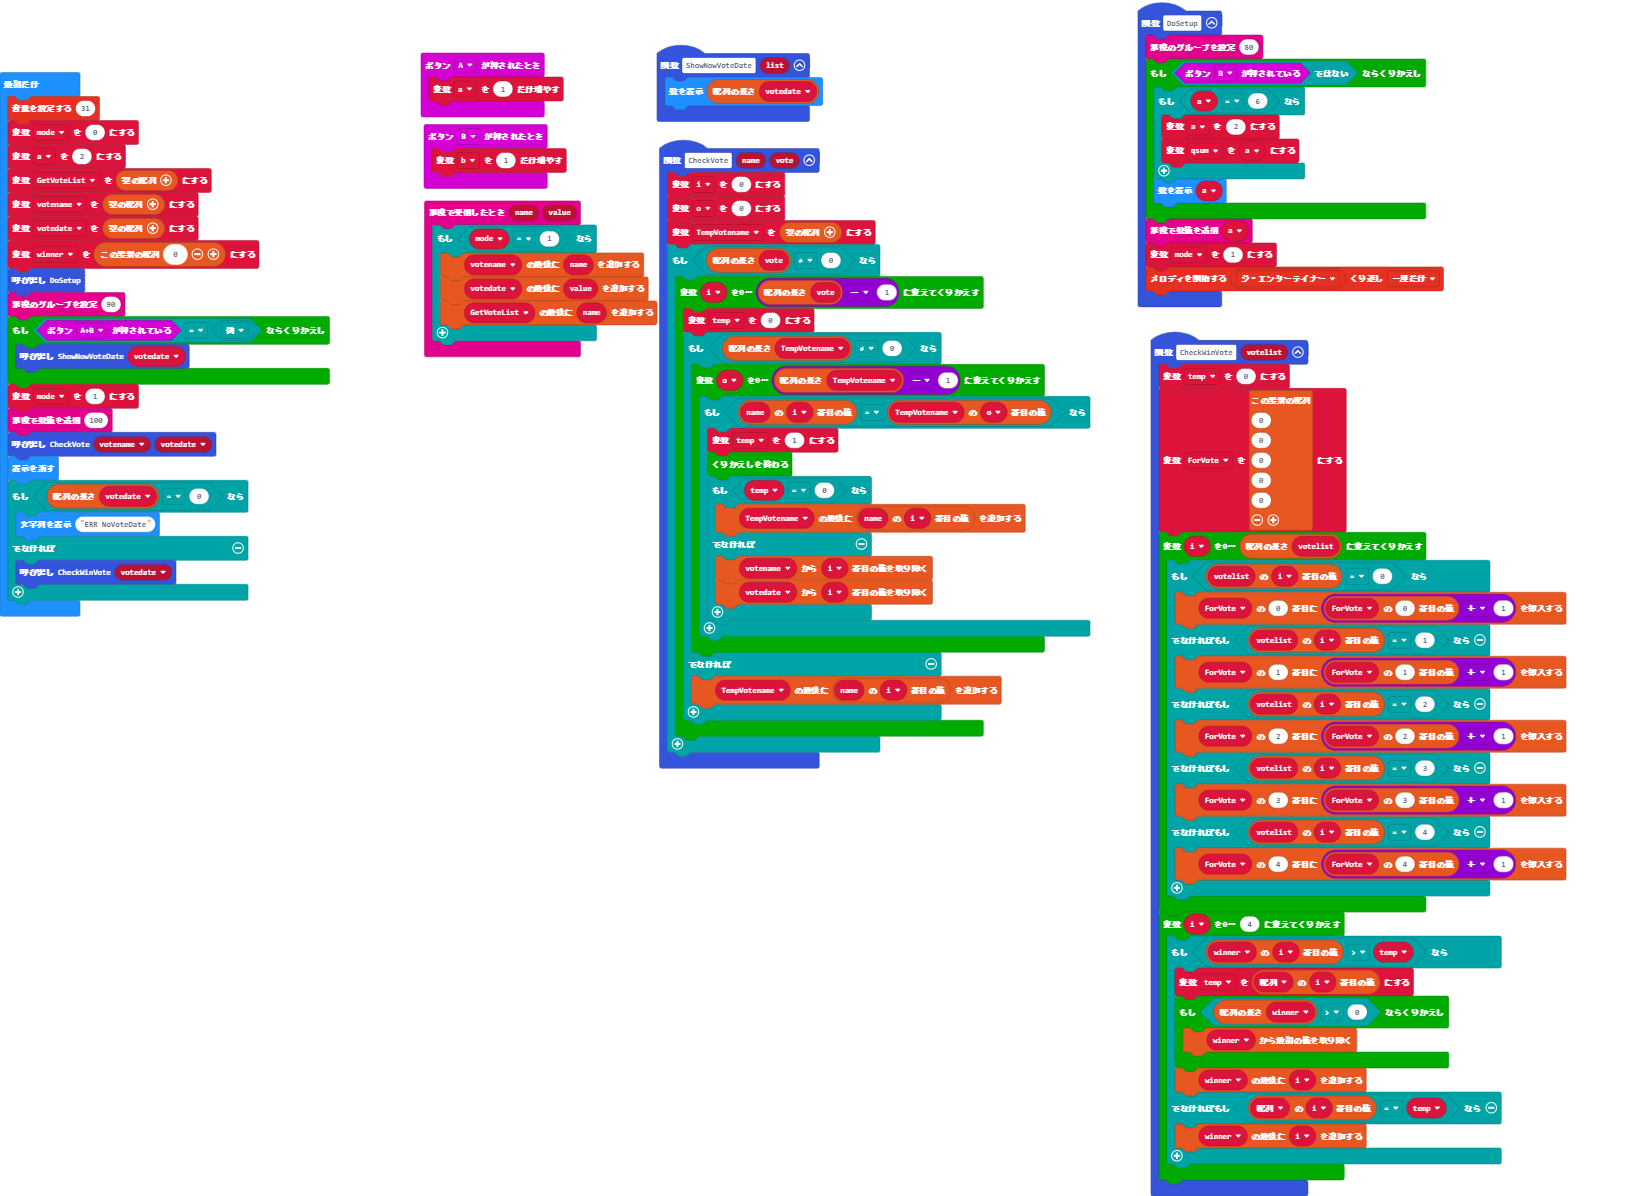
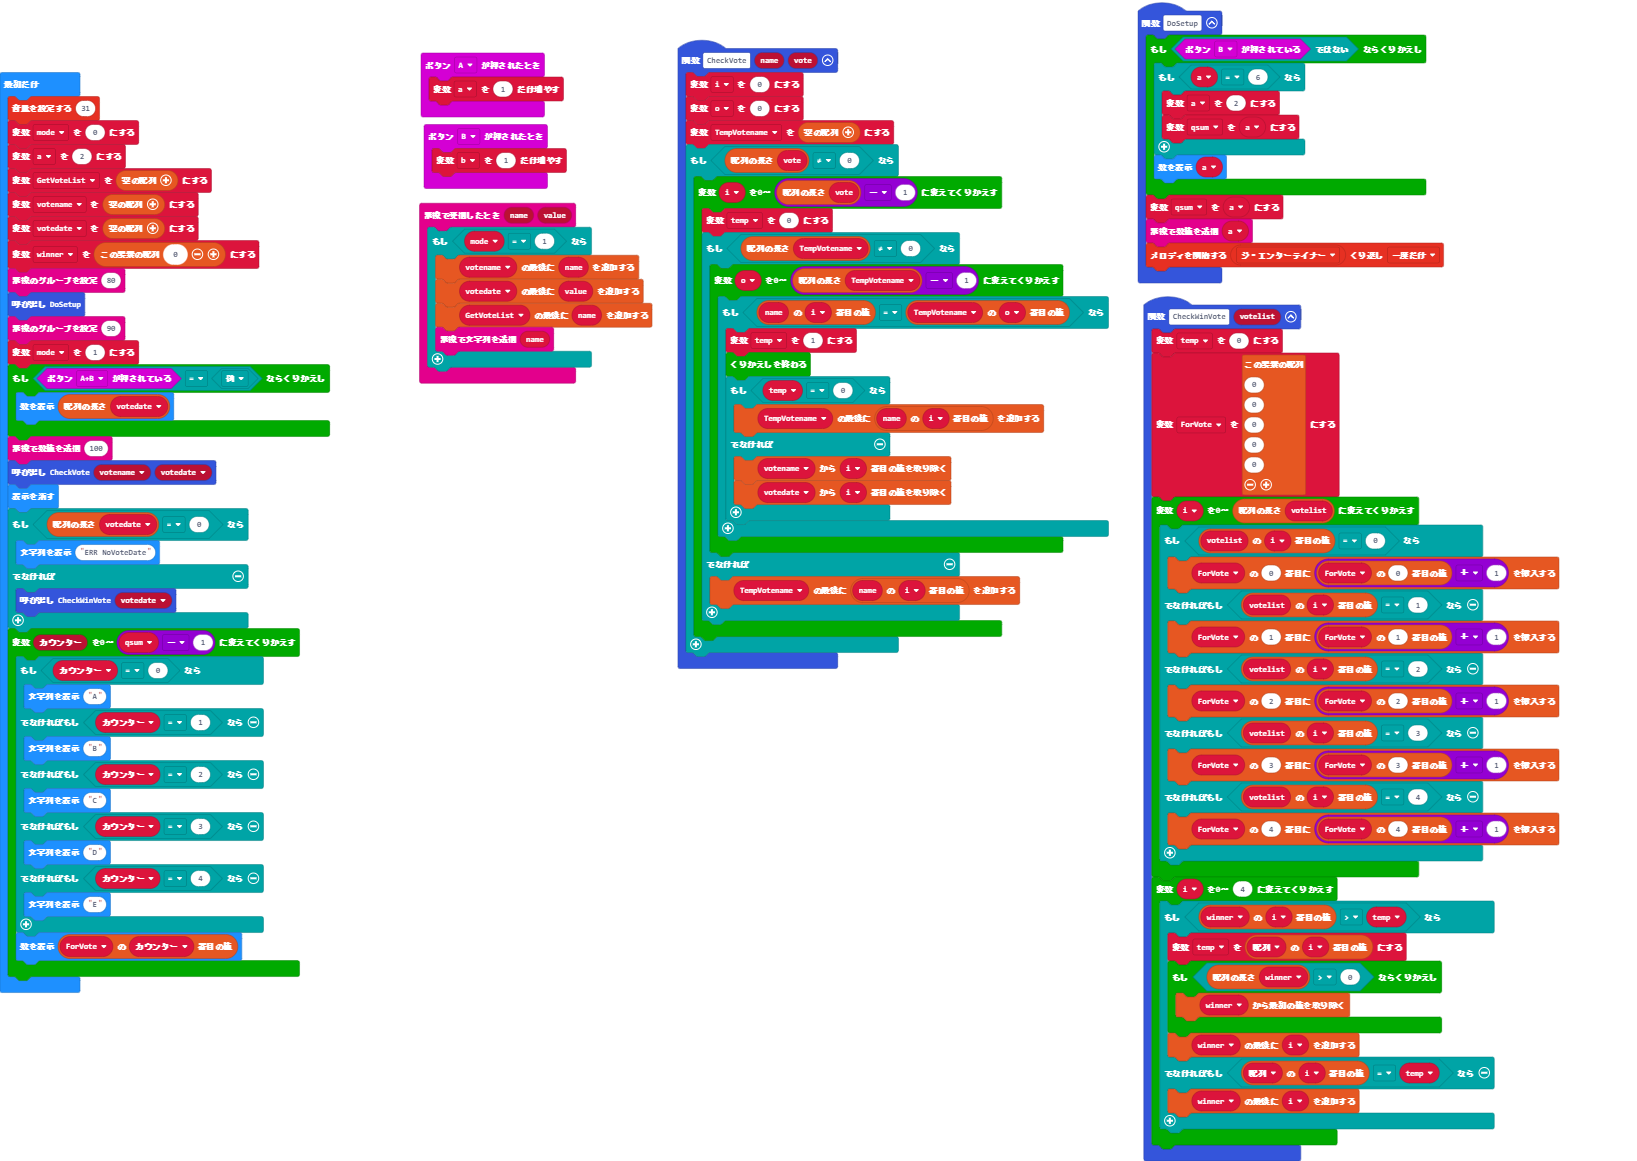
更新 main.blocks, main.ts

diff --git a/main.ts b/main.ts
@@ -1,5 +1,4 @@
 function DoSetup () {
-    radio.setGroup(80)
     while (!(input.buttonIsPressed(Button.B))) {
         if (a == 6) {
             a = 2
@@ -7,8 +6,8 @@ function DoSetup () {
         }
         basic.showNumber(a)
     }
+    qsum = a
     radio.sendNumber(a)
-    mode = 1
     music.startMelody(music.builtInMelody(Melodies.Entertainer), MelodyOptions.Once)
 }
 input.onButtonPressed(Button.A, function () {
@@ -57,6 +56,7 @@ radio.onReceivedValue(function (name, value) {
         votename.push(name)
         votedate.push(value)
         GetVoteList.push(name)
+        radio.sendString(name)
     }
 })
 function CheckVote (name: any[], vote: any[]) {
@@ -85,15 +85,12 @@ if (temp == 0) {
         }
     }
 }
-function ShowNowVoteDate (list: any[]) {
-    basic.showNumber(votedate.length)
-}
 let TempVotename: any[] = []
 let o = 0
 let i = 0
 let b = 0
-let ForVote: number[] = []
 let temp = 0
+let ForVote: number[] = []
 let qsum = 0
 let winner: number[] = []
 let votedate: number[] = []
@@ -108,12 +105,13 @@ GetVoteList = []
 votename = []
 votedate = []
 winner = [0]
+radio.setGroup(80)
 DoSetup()
 radio.setGroup(90)
-while (input.buttonIsPressed(Button.AB) == false) {
-    ShowNowVoteDate(votedate)
-}
 mode = 1
+while (input.buttonIsPressed(Button.AB) == false) {
+    basic.showNumber(votedate.length)
+}
 radio.sendNumber(100)
 CheckVote(votename, votedate)
 basic.clearScreen()
@@ -121,4 +119,18 @@ if (votedate.length == 0) {
     basic.showString("ERR NoVoteDate")
 } else {
     CheckWinVote(votedate)
+}
+for (let カウンター = 0; カウンター <= qsum - 1; カウンター++) {
+    if (カウンター == 0) {
+        basic.showString("A")
+    } else if (カウンター == 1) {
+        basic.showString("B")
+    } else if (カウンター == 2) {
+        basic.showString("C")
+    } else if (カウンター == 3) {
+        basic.showString("D")
+    } else if (カウンター == 4) {
+        basic.showString("E")
+    }
+    basic.showNumber(ForVote[カウンター])
 }
